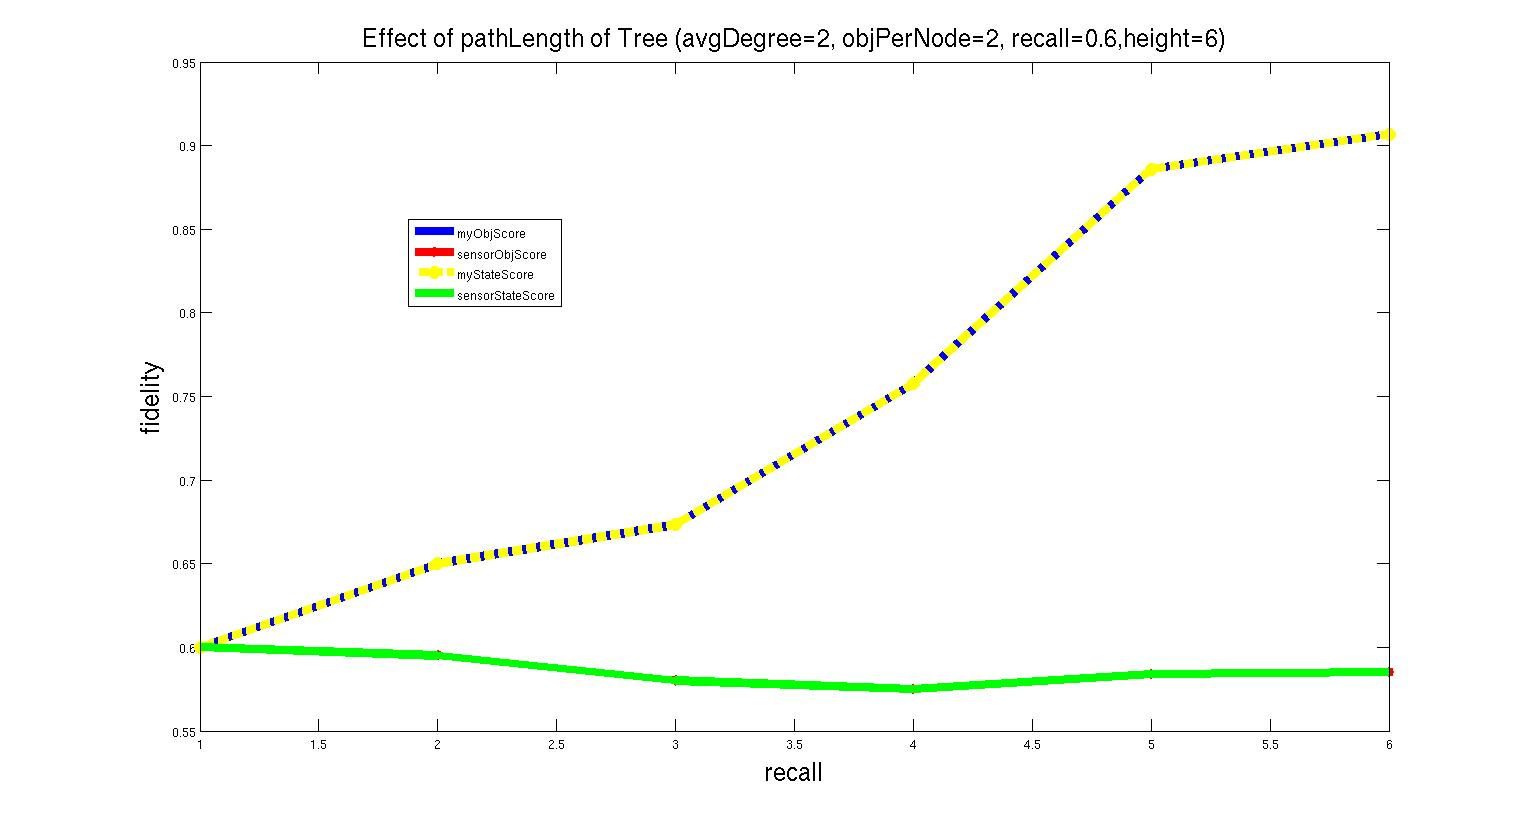
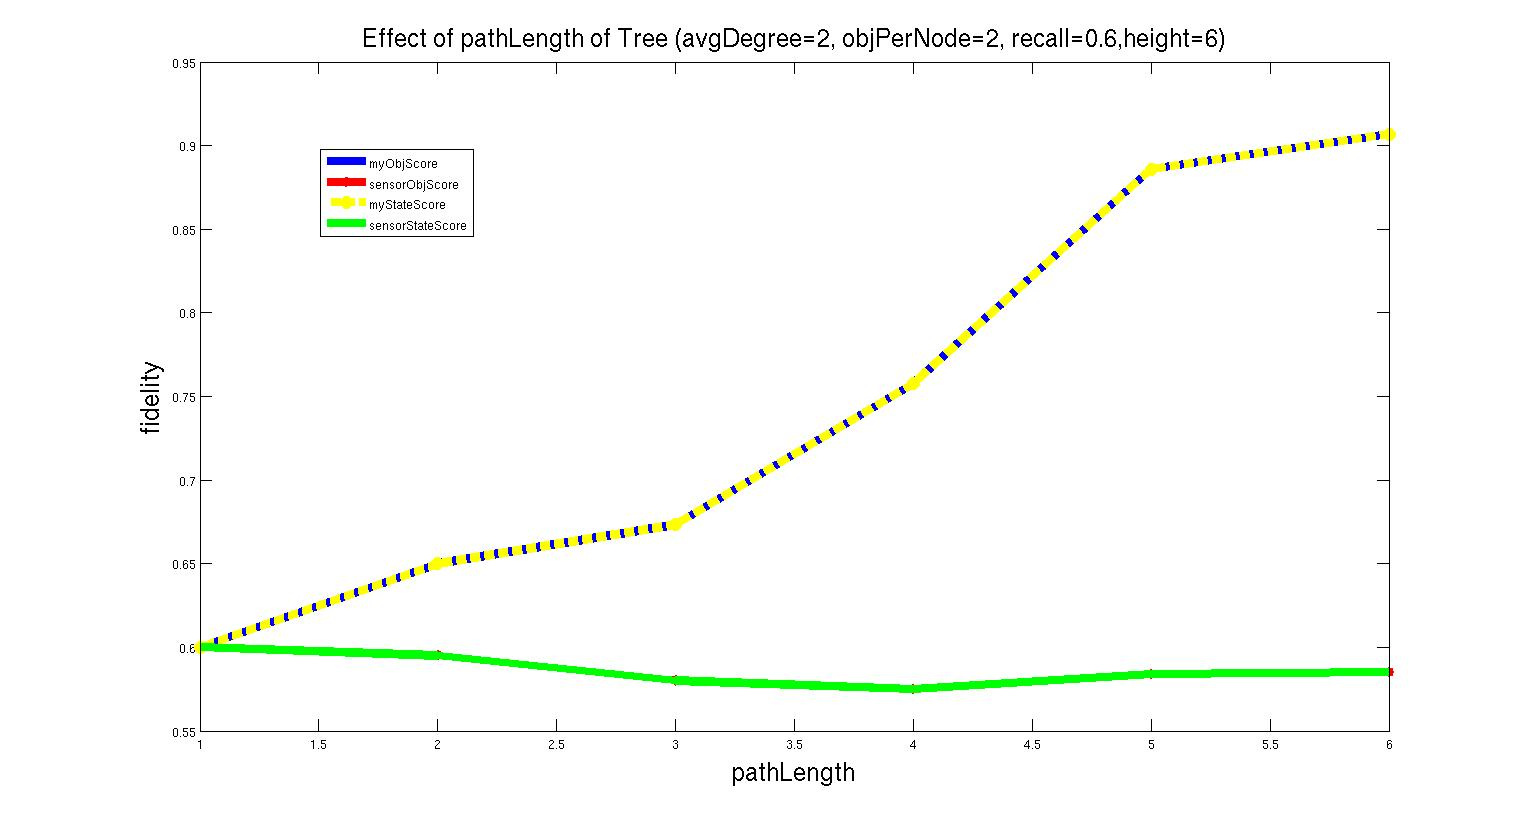
matlab

Changed region(s): [[0.2143, 0.1827, 0.3674, 0.3654], [0.4899, 0.9135, 0.5511, 0.9744]]

diff --git a/codes/HMM/matlab/fig.m b/codes/HMM/matlab/fig.m
@@ -180,11 +180,47 @@
 
 
 
-% x = 1 : 1 : 10;
-% myObjScore = [0.95625 0.81625  0.72125 0.73  0.695 0.655 0.65875 0.56125 0.59875 0.5525 ];
-% sensorObjScore = [ 0.6 0.6025 0.59 0.6 0.6225  0.61 0.625 0.5875 0.60125 0.58625 ];
-% myStateScore = [ 0.9625 0.825 0.73625  0.7375 0.7025 0.665 0.66375 0.575  0.61125 0.5675 ];
-% sensorStateScore = [ 0.60625 0.61125 0.60625 0.60875  0.63375 0.62 0.63 0.605 0.615 0.60375 ];
+x = 1 : 1 : 10;
+myObjScore = [0.95625 0.81625  0.72125 0.73  0.695 0.655 0.65875 0.56125 0.59875 0.5525 ];
+sensorObjScore = [ 0.6 0.6025 0.59 0.6 0.6225  0.61 0.625 0.5875 0.60125 0.58625 ];
+myStateScore = [ 0.9625 0.825 0.73625  0.7375 0.7025 0.665 0.66375 0.575  0.61125 0.5675 ];
+sensorStateScore = [ 0.60625 0.61125 0.60625 0.60875  0.63375 0.62 0.63 0.605 0.615 0.60375 ];
+plot(x, myObjScore, '-b', 'LineWidth', 7);
+hold on;
+plot(x, sensorObjScore, '*r-', 'LineWidth', 7)
+hold on;
+plot(x, myStateScore, 'yo--', 'LineWidth', 7);
+hold on;
+plot(x, sensorStateScore, 'g-', 'LineWidth', 7);
+legend('myObjScore', 'sensorObjScore', 'myStateScore', 'sensorStateScore');
+xlabel('degree', 'FontSize', 18);
+ylabel('fidelity', 'FontSize', 18);
+title('Effect of degree of graph (objPerNode=5, recall = 0.6, pathLength=8)', 'FontSize', 18);
+% 
+% 
+% x = 1 : 1 : 6;
+% myObjScore = [ 0.6 0.65 0.6733333333333335 0.7575 0.885999999999999  0.9066666666666663 ];
+% sensorObjScore = [ 0.6 0.595  0.58 0.575 0.584 0.585];
+% myStateScore = [ 0.6 0.65  0.6733333333333335 0.7575 0.885999999999999 0.9066666666666663 ];
+% sensorStateScore = [ 0.6 0.595 0.58 0.575 0.584  0.585];
+% plot(x, myObjScore, '-b', 'LineWidth', 7);
+% hold on;
+% plot(x, sensorObjScore, '*r-', 'LineWidth', 7)
+% hold on;
+% plot(x, myStateScore, 'yo--', 'LineWidth', 7);
+% hold on;
+% plot(x, sensorStateScore, 'g-', 'LineWidth', 7);
+% legend('myObjScore', 'sensorObjScore', 'myStateScore', 'sensorStateScore');
+% xlabel('pathLength', 'FontSize', 18);
+% ylabel('fidelity', 'FontSize', 18);
+% title('Effect of pathLength of Tree (avgDegree=2, objPerNode=2, recall=0.6,height=6)', 'FontSize', 18);
+
+
+% x = 0.1 : 0.1 : 0.9;
+% myObjScore = [ 0.125 0.2 0.35 0.53125 0.6375 0.725 0.90625 0.91875 0.975 ];
+% sensorObjScore = [ 0.0875  0.20625 0.2625 0.36875 0.48125 0.55 0.7 0.83125 0.88125 ];
+% myStateScore = [0.1375 0.225 0.36875 0.5375 0.65625 0.7375 0.91875 0.91875 0.975 ];
+% sensorStateScore = [0.1  0.25625 0.2875 0.375 0.5 0.5625 0.7125 0.83125 0.88125];
 % plot(x, myObjScore, '-b', 'LineWidth', 7);
 % hold on;
 % plot(x, sensorObjScore, '*r-', 'LineWidth', 7)
@@ -195,23 +231,24 @@
 % legend('myObjScore', 'sensorObjScore', 'myStateScore', 'sensorStateScore');
 % xlabel('recall', 'FontSize', 18);
 % ylabel('fidelity', 'FontSize', 18);
-% title('Effect of degree of graph (objPerNode=5, recall = 0.6, pathLength=8)', 'FontSize', 18);
+% title('Effect of Graph Recall (avgDegree=3, objPerNode=5, nodeNum=30, pathLength=8)', 'FontSize', 18);
 
+% x = 1 : 1 : 10;
+% myObjScore = [0.51 0.645 0.60966666666666668 0.66 0.626 0.6866666666666669 0.6814285714285714 0.7525 0.7888888888888882  0.7560000000000002 ];
+% sensorObjScore = [0.51  0.61 0.5499999999998 0.5675 0.5879999999999999 0.5833333333333335 0.5657142857142858  0.60375  0.6199999999999999 0.6030000000000002
+%  ];
+% myStateScore = [0.51  0.655 0.61333333333332 0.68 0.6399999999999999 0.6900000000000002 0.701428571428571 0.76125 0.7988888888888883  0.7650000000000002];
+% sensorStateScore = [0.51 0.62 0.553333333333333 0.59 0.6039999999999999 0.5900000000000003 0.5857142857142857 0.6125 0.6299999999999999  0.6140000000000003];
+% plot(x, myObjScore, '-b', 'LineWidth', 7);
+% hold on;
+% plot(x, sensorObjScore, '*r-', 'LineWidth', 7)
+% hold on;
+% plot(x, myStateScore, 'yo--', 'LineWidth', 7);
+% hold on;
+% plot(x, sensorStateScore, 'g-', 'LineWidth', 7);
+% legend('myObjScore', 'sensorObjScore', 'myStateScore', 'sensorStateScore');
+% xlabel('pathLength', 'FontSize', 18);
+% ylabel('fidelity', 'FontSize', 18);
+% title('Effect of Graph pathLength (avgDegree=3, objPerNode=5, nodeNum=30, recall=0.6)', 'FontSize', 18);
 
-x = 1 : 1 : 6;
-myObjScore = [ 0.6 0.65 0.6733333333333335 0.7575 0.885999999999999  0.9066666666666663 ];
-sensorObjScore = [ 0.6 0.595  0.58 0.575 0.584 0.585];
-myStateScore = [ 0.6 0.65  0.6733333333333335 0.7575 0.885999999999999 0.9066666666666663 ];
-sensorStateScore = [ 0.6 0.595 0.58 0.575 0.584  0.585];
-plot(x, myObjScore, '-b', 'LineWidth', 7);
-hold on;
-plot(x, sensorObjScore, '*r-', 'LineWidth', 7)
-hold on;
-plot(x, myStateScore, 'yo--', 'LineWidth', 7);
-hold on;
-plot(x, sensorStateScore, 'g-', 'LineWidth', 7);
-legend('myObjScore', 'sensorObjScore', 'myStateScore', 'sensorStateScore');
-xlabel('recall', 'FontSize', 18);
-ylabel('fidelity', 'FontSize', 18);
-title('Effect of pathLength of Tree (avgDegree=2, objPerNode=2, recall=0.6,height=6)', 'FontSize', 18);
 
